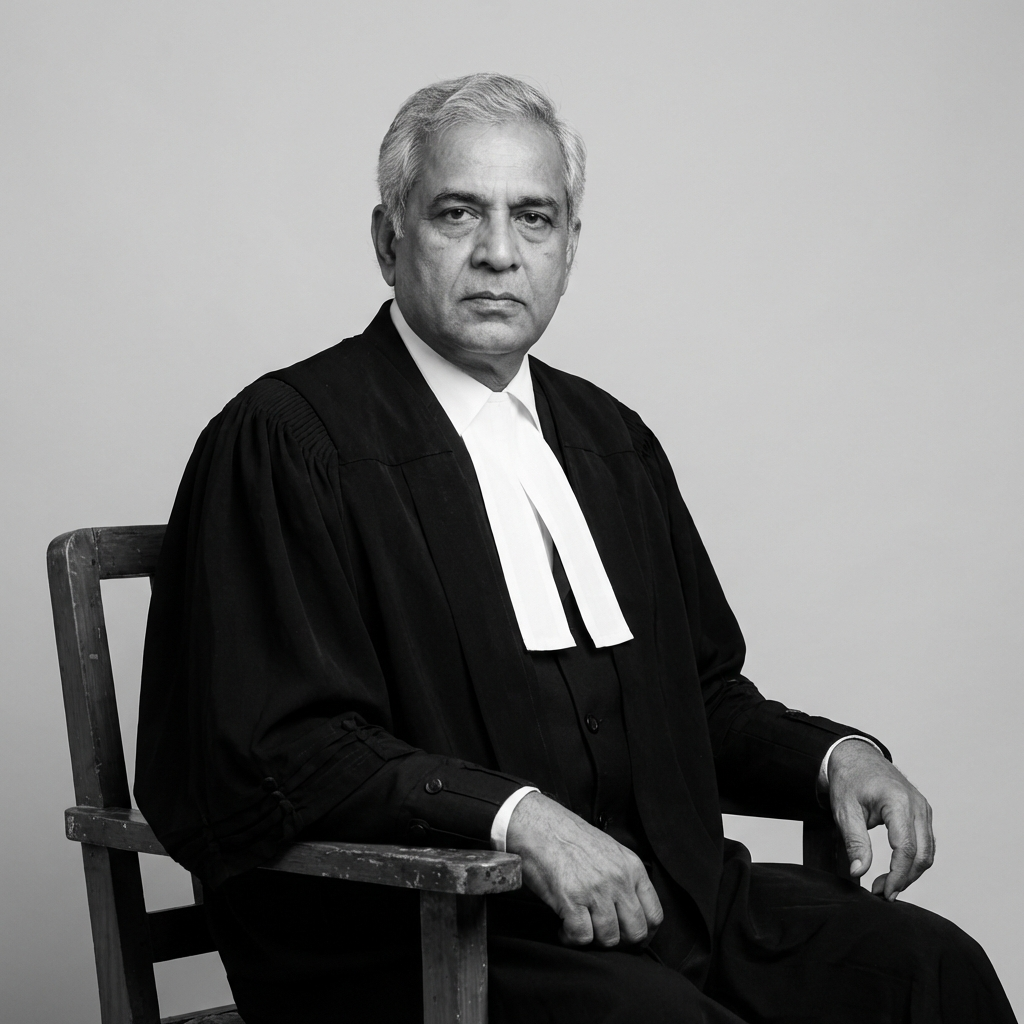
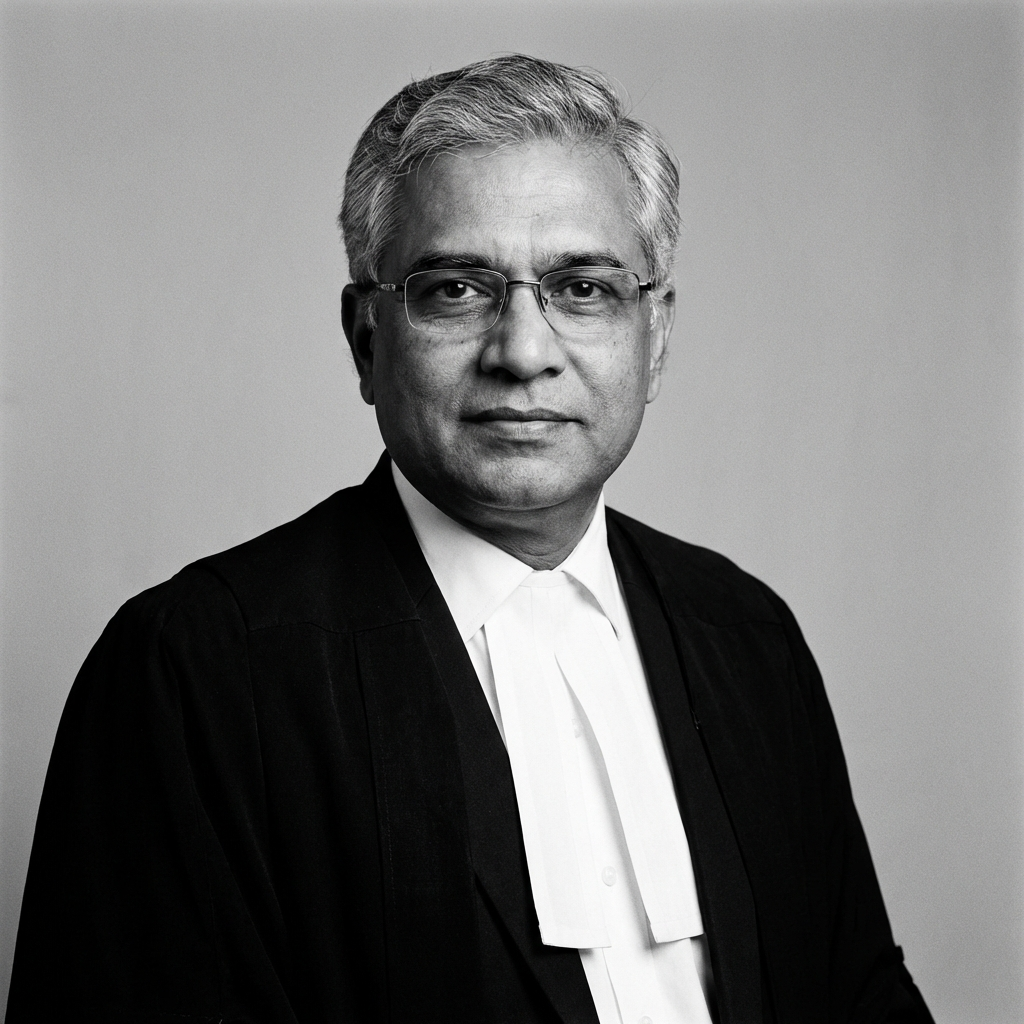
feat: Create initial landing page with core sections and advocate profile.

diff --git a/components/sections/WhyChoose.tsx b/components/sections/WhyChoose.tsx
@@ -1,73 +1,83 @@
 import React from "react";
+import Container from "../ui/Container";
 
 const FEATURES = [
     {
-        title: "Focused Legal Practice",
+        title: "Advocate-Led Legal Practice",
         description:
-            "A solo practice with complete ownership of every matter. No handoffs, no junior dilution — your case is handled personally, from consultation to closure.",
+            "A principal-driven practice where every case is strategically overseen by the lead advocate, supported by a dedicated legal team to ensure consistency, accountability, and thorough preparation.",
+        icon: (
+            <svg className="w-6 h-6" fill="none" stroke="currentColor" viewBox="0 0 24 24">
+                <path strokeLinecap="round" strokeLinejoin="round" strokeWidth={1.5} d="M3 6l3 1m0 0l-3 9a5.002 5.002 0 006.001 0M6 7l3 9M6 7l6-2m6 2l3-1m-3 1l-3 9a5.002 5.002 0 006.001 0M18 7l3 9m-3-9l-6-2m0-2v2m0 16V5m0 16H9m3 0h3" />
+            </svg>
+        ),
     },
     {
         title: "Clear Legal Strategy",
         description:
-            "Every case begins with a structured legal assessment. You receive realistic options, risks, and timelines — not vague assurances or inflated promises.",
+            "Every matter begins with a structured legal assessment. Clients receive realistic options, risks, and timelines — no vague assurances or inflated promises.",
+        icon: (
+            <svg className="w-6 h-6" fill="none" stroke="currentColor" viewBox="0 0 24 24">
+                <path strokeLinecap="round" strokeLinejoin="round" strokeWidth={1.5} d="M9 5H7a2 2 0 00-2 2v12a2 2 0 002 2h10a2 2 0 002-2V7a2 2 0 00-2-2h-2M9 5a2 2 0 002 2h2a2 2 0 002-2M9 5a2 2 0 012-2h2a2 2 0 012 2m-3 7h3m-3 4h3m-6-4h.01M9 16h.01" />
+            </svg>
+        ),
     },
     {
         title: "Courtroom & Advisory Experience",
         description:
-            "Hands-on experience across litigation, notices, drafting, and negotiations in Delhi NCR courts, with practical insight into how matters move on the ground.",
+            "Extensive hands-on experience across litigation, drafting, negotiations, and court proceedings with a practical understanding of how cases progress on the ground.",
+        icon: (
+            <svg className="w-6 h-6" fill="none" stroke="currentColor" viewBox="0 0 24 24">
+                <path strokeLinecap="round" strokeLinejoin="round" strokeWidth={1.5} d="M19 21V5a2 2 0 00-2-2H7a2 2 0 00-2 2v16m14 0h2m-2 0h-5m-9 0H3m2 0h5M9 7h1m-1 4h1m4-4h1m-1 4h1m-5 10v-5a1 1 0 011-1h2a1 1 0 011 1v5m-4 0h4" />
+            </svg>
+        ),
     },
     {
         title: "Transparent Communication",
         description:
-            "Straightforward updates, documented advice, and clarity on next steps. You are informed at every stage, without legal jargon or uncertainty.",
-    },
-    {
-        title: "Ethical & Discreet Handling",
-        description:
-            "Matters are handled with confidentiality, restraint, and professional integrity — especially in sensitive disputes involving family, employment, or finances.",
-    },
-    {
-        title: "Accessible & Responsive",
-        description:
-            "Direct access to the advocate handling your case. Consultations, follow-ups, and filings are managed without unnecessary delays or intermediaries.",
+            "Clear updates, documented advice, and clarity at every stage — ensuring clients remain informed without unnecessary legal jargon or uncertainty.",
+        icon: (
+            <svg className="w-6 h-6" fill="none" stroke="currentColor" viewBox="0 0 24 24">
+                <path strokeLinecap="round" strokeLinejoin="round" strokeWidth={1.5} d="M8 12h.01M12 12h.01M16 12h.01M21 12c0 4.418-4.03 8-9 8a9.863 9.863 0 01-4.255-.949L3 20l1.395-3.72C3.512 15.042 3 13.574 3 12c0-4.418 4.03-8 9-8s9 3.582 9 8z" />
+            </svg>
+        ),
     },
 ];
 
 export default function WhyChoose() {
     return (
-        <section className="section-muted">
-            <div className="mx-auto max-w-7xl px-6">
-                {/* Section Header */}
-                <div className="max-w-2xl">
-                    <h2 className="font-playfair text-3xl font-semibold text-gray-900">
+        <section className="bg-white py-24 border-b border-gray-100">
+            <Container>
+                {/* Header */}
+                <div className="max-w-3xl mx-auto text-center mb-20">
+                    <h2 className="font-serif text-3xl md:text-4xl font-bold text-gray-900 mb-6">
                         Why Clients Choose This Practice
                     </h2>
-                    <p className="mt-4 text-base leading-relaxed text-gray-700">
-                        Legal representation built on clarity, accountability, and direct
-                        involvement — not volume-driven case handling.
+                    <p className="text-xl font-sans text-gray-600 leading-relaxed font-light">
+                        Legal representation built on clarity, accountability, and direct involvement.
                     </p>
                 </div>
 
-                {/* Divider */}
-                <div className="mt-10 h-px w-full bg-gray-200" />
-
                 {/* Grid */}
-                <div className="mt-12 grid gap-8 sm:grid-cols-2 lg:grid-cols-3">
+                <div className="grid grid-cols-1 md:grid-cols-2 gap-8 max-w-6xl mx-auto">
                     {FEATURES.map((item) => (
                         <div
                             key={item.title}
-                            className="rounded-xl border border-gray-200 bg-white p-8"
+                            className="group p-10 bg-white border border-gray-200 rounded-sm hover:border-slate-800 hover:shadow-md transition-all duration-300 flex flex-col items-start"
                         >
-                            <h3 className="font-playfair text-xl font-medium text-gray-900">
+                            <div className="mb-6 p-3 bg-slate-50 rounded-full text-slate-700 group-hover:bg-slate-900 group-hover:text-white transition-colors duration-300">
+                                {item.icon}
+                            </div>
+                            <h3 className="font-serif text-xl font-bold text-slate-900 mb-4">
                                 {item.title}
                             </h3>
-                            <p className="mt-4 text-sm leading-relaxed text-gray-700">
+                            <p className="font-sans text-gray-600 leading-relaxed">
                                 {item.description}
                             </p>
                         </div>
                     ))}
                 </div>
-            </div>
+            </Container>
         </section>
     );
 }

diff --git a/components/sections/LawyerProfileSection.tsx b/components/sections/LawyerProfileSection.tsx
@@ -4,53 +4,63 @@ interface LawyerProfile {
     name: string;
     designation: string;
     location: string;
+    experienceLine?: string;
     bio: string;
     focusAreas: string[];
     courts: string[];
 }
 
 interface LawyerProfileSectionProps {
-    heading: string;
+    heading?: string; // Optional, can be ignored if we just want the profile
     profile: LawyerProfile;
 }
 
-const LawyerProfileSection = ({ heading, profile }: LawyerProfileSectionProps) => {
+const LawyerProfileSection = ({ profile }: LawyerProfileSectionProps) => {
     return (
-        <section className="section bg-neutral-50 border-y border-neutral-200">
+        <section className="section bg-white border-y border-gray-100 py-24">
             <Container>
-                <div className="grid md:grid-cols-2 gap-12 items-center">
+                <div className="grid md:grid-cols-2 gap-16 items-start">
 
                     {/* Left Column: Content */}
-                    <div className="order-2 md:order-1 space-y-8">
-                        <div>
-                            <h2 className="text-3xl md:text-4xl font-serif text-gray-900 leading-tight">
+                    <div className="order-2 md:order-1 flex flex-col justify-center h-full">
+                        <div className="mb-8">
+                            <h2 className="text-4xl md:text-5xl font-serif text-gray-900 leading-tight mb-3">
                                 {profile.name}
                             </h2>
-                            <p className="text-lg text-gray-500 uppercase tracking-widest mt-2 font-medium">
+                            <p className="text-sm font-medium text-gray-500 tracking-[0.2em] uppercase">
                                 {profile.designation}, {profile.location}
                             </p>
                         </div>
 
-                        <div className="w-16 h-px bg-gray-400"></div>
+                        {/* Authority Line */}
+                        {profile.experienceLine && (
+                            <div className="mb-8 pl-6 border-l-2 border-gray-900">
+                                <p className="text-xl font-serif font-medium text-gray-900 italic">
+                                    "{profile.experienceLine}"
+                                </p>
+                            </div>
+                        )}
 
-                        <p className="text-xl text-gray-800 leading-relaxed font-light font-serif">
+                        <div className="w-12 h-px bg-gray-300 mb-8"></div>
+
+                        <p className="text-lg text-gray-600 leading-relaxed font-light mb-12 max-w-lg">
                             {profile.bio}
                         </p>
 
-                        <div className="grid grid-cols-1 md:grid-cols-2 gap-x-8 gap-y-4 pt-4 border-t border-gray-200">
+                        <div className="grid grid-cols-1 sm:grid-cols-2 gap-10 border-t border-gray-100 pt-8">
                             <div>
-                                <h4 className="text-sm font-bold text-gray-900 uppercase tracking-wider mb-3">Focus Areas</h4>
-                                <ul className="space-y-1">
+                                <h4 className="text-xs font-bold text-gray-900 uppercase tracking-widest mb-4">Focus Areas</h4>
+                                <ul className="space-y-2">
                                     {profile.focusAreas?.map((area, index) => (
-                                        <li key={index} className="text-gray-700 font-medium">{area}</li>
+                                        <li key={index} className="text-gray-700 text-sm font-medium border-b border-gray-50 pb-1 last:border-0">{area}</li>
                                     ))}
                                 </ul>
                             </div>
                             <div>
-                                <h4 className="text-sm font-bold text-gray-900 uppercase tracking-wider mb-3">Admitted to Practice</h4>
-                                <ul className="space-y-1">
+                                <h4 className="text-xs font-bold text-gray-900 uppercase tracking-widest mb-4">Admitted to Practice</h4>
+                                <ul className="space-y-2">
                                     {profile.courts.map((court, index) => (
-                                        <li key={index} className="text-gray-700 font-medium">{court}</li>
+                                        <li key={index} className="text-gray-700 text-sm font-medium border-b border-gray-50 pb-1 last:border-0">{court}</li>
                                     ))}
                                 </ul>
                             </div>
@@ -58,12 +68,12 @@ const LawyerProfileSection = ({ heading, profile }: LawyerProfileSectionProps) =
                     </div>
 
                     {/* Right Column: Portrait */}
-                    <div className="order-1 md:order-2 flex justify-end">
-                        <div className="relative w-full max-w-sm aspect-[4/5] bg-gray-200 overflow-hidden shadow-sm filter grayscale hover:grayscale-0 transition-all duration-700 ease-in-out">
+                    <div className="order-1 md:order-2 flex justify-end items-center">
+                        <div className="relative w-full max-w-md aspect-[3/4] bg-stone-100 overflow-hidden shadow-sm">
                             <img
                                 src="/images/advocate-portrait.png"
                                 alt={profile.name}
-                                className="w-full h-full object-cover object-top"
+                                className="w-full h-full object-cover grayscale contrast-110"
                             />
                         </div>
                     </div>

diff --git a/components/sections/ContactSection.tsx b/components/sections/ContactSection.tsx
@@ -1,50 +1,52 @@
 import Container from "../ui/Container";
 
 interface ContactSectionProps {
-    heading: string;
+    heading?: string; // Optional, hardcoded default preferred as per design
     phone: string;
     whatsapp: string;
     address: string;
 }
 
-const ContactSection = ({ heading, phone, whatsapp, address }: ContactSectionProps) => {
+const ContactSection = ({ heading = "Speak With an Advocate", phone, whatsapp, address }: ContactSectionProps) => {
     return (
-        <section className="section section-light border-t border-gray-200">
+        <section className="bg-stone-50 py-24 border-t border-gray-200">
             <Container>
-                <div className="max-w-3xl">
-                    <h2 className="font-serif text-3xl font-semibold text-gray-900">
+                <div className="max-w-4xl mx-auto text-center">
+                    {/* Heading */}
+                    <h2 className="font-serif text-4xl md:text-5xl font-bold text-gray-900 mb-6">
                         {heading}
                     </h2>
 
-                    <p className="mt-4 text-gray-600">
-                        Reach out for consultation or urgent legal assistance.
+                    {/* Subheading */}
+                    <p className="text-xl text-gray-600 mb-10 leading-relaxed font-light max-w-2xl mx-auto">
+                        Consult directly with an experienced legal professional to understand your position, options, and next steps.
                     </p>
 
-                    <div className="mt-8 space-y-4 text-sm">
-                        <div>
-                            <span className="block font-semibold text-gray-900">
-                                Office Address
-                            </span>
-                            <span className="text-gray-600">
-                                {address}
-                            </span>
-                        </div>
+                    {/* CTAs */}
+                    <div className="flex flex-col sm:flex-row justify-center gap-6 mb-12">
+                        <a
+                            href={`tel:${phone.replace(/\s+/g, "")}`}
+                            className="inline-flex items-center justify-center px-8 py-4 bg-gray-900 text-white text-lg font-medium rounded-sm hover:bg-gray-800 transition-colors shadow-sm"
+                        >
+                            Schedule Consultation
+                        </a>
 
-                        <div className="flex flex-wrap gap-6">
-                            <a
-                                href={`tel:${phone}`}
-                                className="inline-flex items-center px-6 py-3 bg-gray-900 text-white font-medium hover:bg-gray-800 transition"
-                            >
-                                Call Now
-                            </a>
+                        <a
+                            href={`https://wa.me/${whatsapp.replace(/[^0-9]/g, "")}`}
+                            className="inline-flex items-center justify-center px-8 py-4 bg-white border border-gray-300 text-gray-900 text-lg font-medium rounded-sm hover:bg-gray-50 transition-colors shadow-sm"
+                        >
+                            WhatsApp Inquiry
+                        </a>
+                    </div>
 
-                            <a
-                                href={`https://wa.me/${whatsapp.replace("+", "")}`}
-                                className="inline-flex items-center px-6 py-3 border border-gray-300 text-gray-900 font-medium hover:border-gray-900 transition"
-                            >
-                                WhatsApp
-                            </a>
-                        </div>
+                    {/* Office Location */}
+                    <div className="pt-10 border-t border-gray-200">
+                        <p className="text-sm font-bold text-gray-500 uppercase tracking-widest mb-2">
+                            Principal Office
+                        </p>
+                        <p className="text-lg text-gray-900 font-serif">
+                            {address}
+                        </p>
                     </div>
                 </div>
             </Container>

diff --git a/data/lawyerProfile.ts b/data/lawyerProfile.ts
@@ -1,9 +1,10 @@
 export const lawyerProfile = {
-  name: "Advocate Name",
-  designation: "Advocate",
+  name: "Mr. Rajendra Panigrahi",
+  designation: "Senior Advocate",
   location: "New Delhi, India",
+  experienceLine: "Over 20 Years of Distinguished Practice in High-Stakes Litigation",
   bio:
-    "A distinguished legal practitioner with over two decades of experience in high-stakes litigation. Specializing in criminal defense, constitutional law, and complex property disputes, known for strategic counsel and unwavering advocacy.",
+    "A distinguished legal practitioner known for his commanding courtroom presence and strategic intellect. Specialized in criminal defense, constitutional law, and complex property disputes, Mr. Panigrahi provides authoritative counsel to corporations and individuals in their most critical legal challenges.",
   focusAreas: [
     "Criminal Defense",
     "Constitutional Law",
@@ -13,6 +14,6 @@ export const lawyerProfile = {
   courts: [
     "Supreme Court of India",
     "Delhi High Court",
-    "District Courts, NCR",
-  ],
+    "District Courts – NCR"
+  ]
 };

diff --git a/app/page.tsx b/app/page.tsx
@@ -28,8 +28,8 @@ export default function HomePage() {
 
       <main>
         <HeroSection
-          title="Advocate for Criminal, Family & Property Matters in Noida"
-          subtitle="Practicing before District Courts, Delhi High Court and the Supreme Court of India."
+          title="Advocate for Criminal, Family & Property Law Matters"
+          subtitle="Focused legal practice across criminal defense, family disputes, and property litigation."
           primaryAction={{ label: "Call Now", href: "tel:+919999999999" }}
           secondaryAction={{ label: "WhatsApp", href: "https://wa.me/919999999999" }}
           imageSrc="/images/lady-justice-dark.png"
